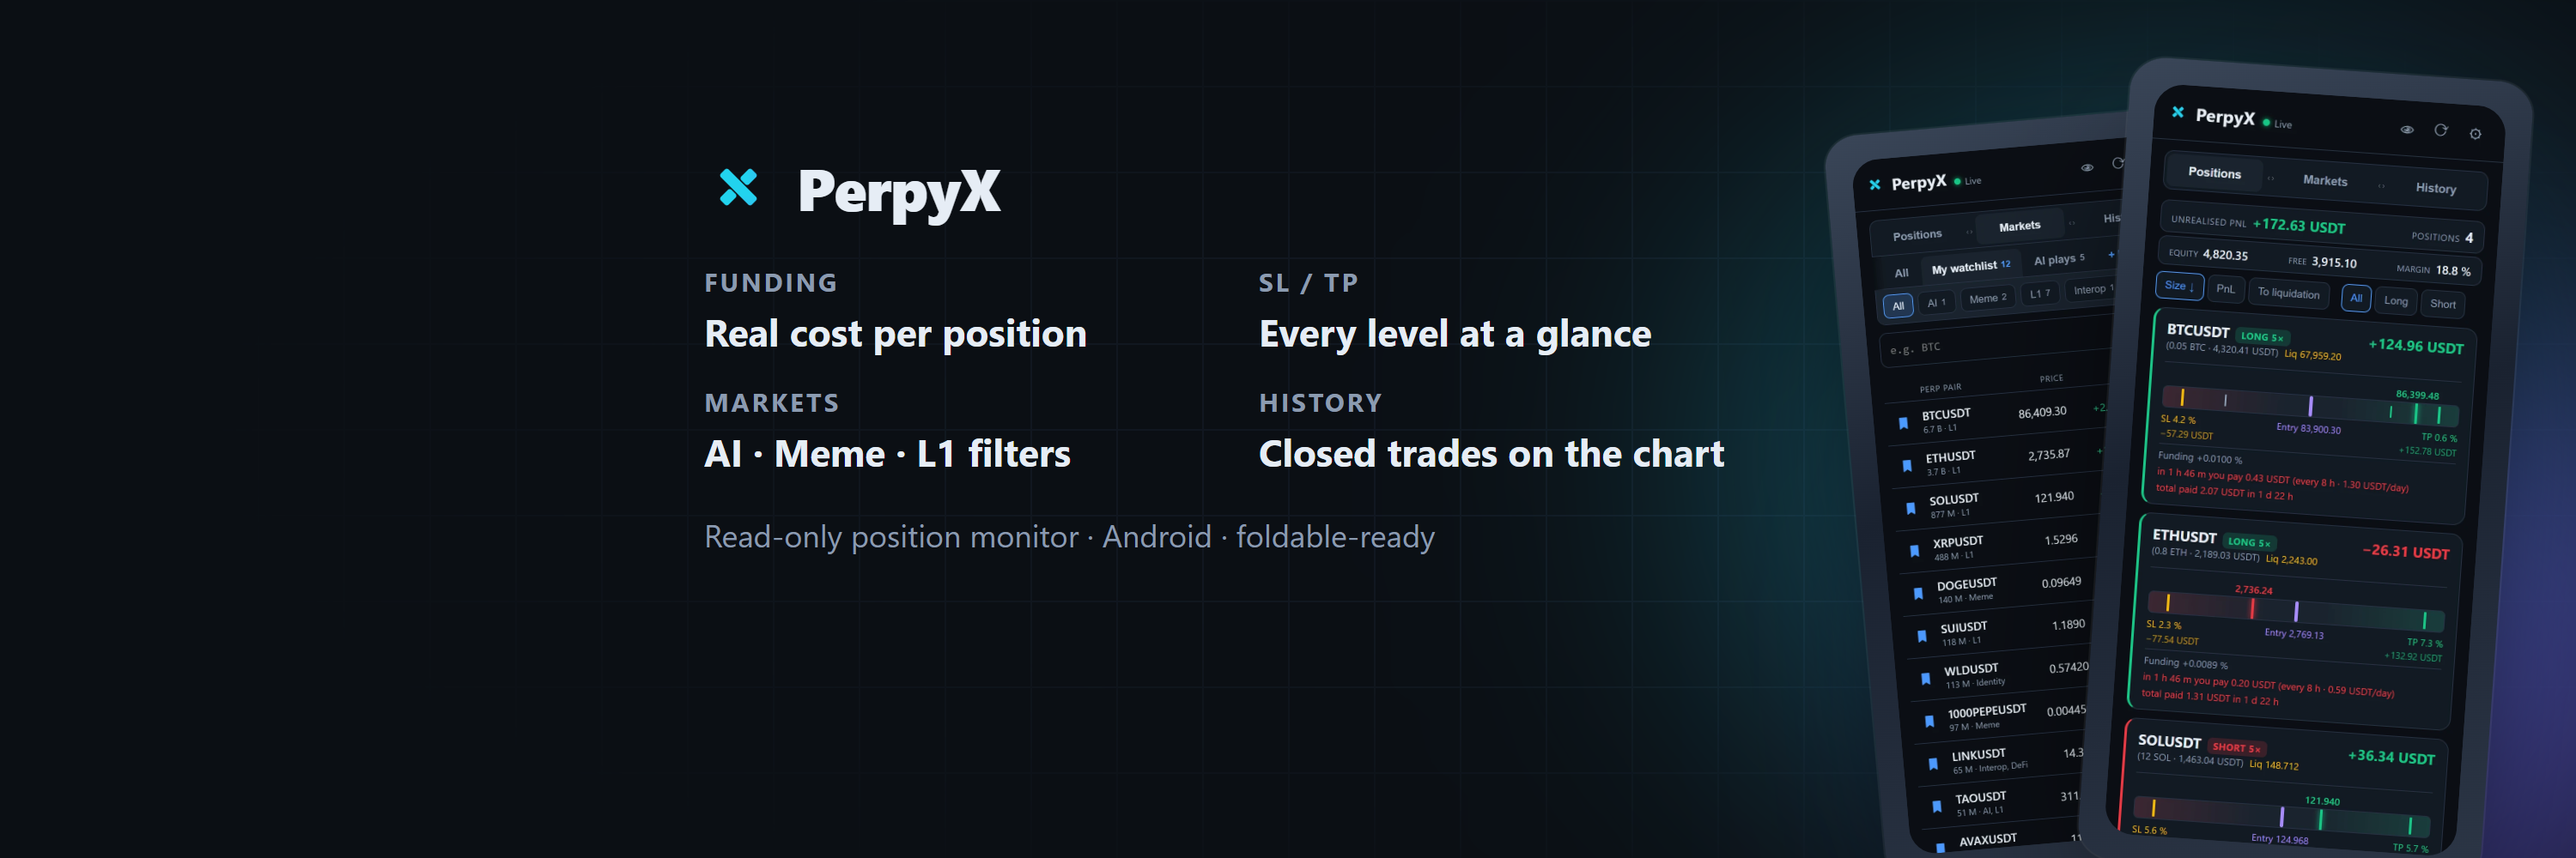
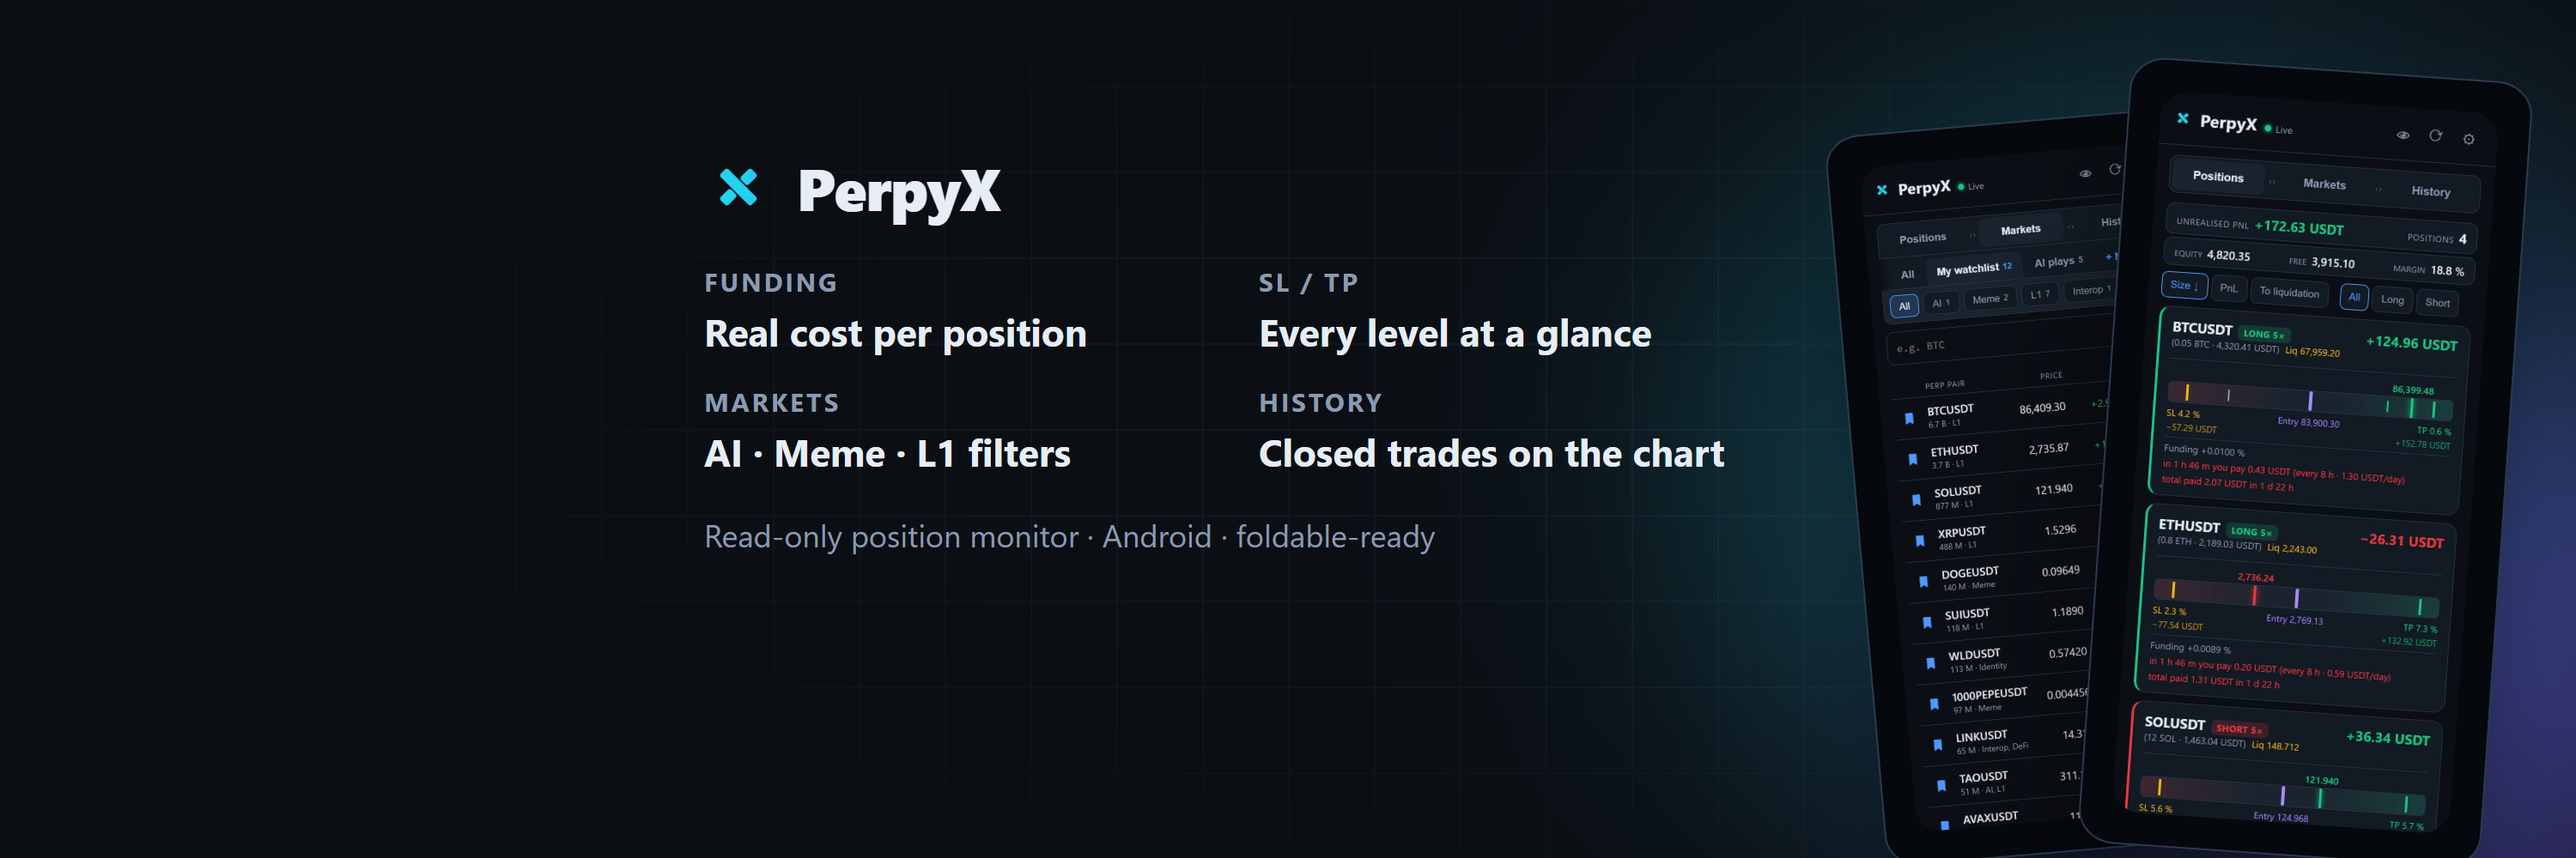
Design X: tenky tmavy ramecek jako na webu, viditelny okraj displeje
Claude-Session: https://claude.ai/code/session_015bSMKh62UKs2XyHsFmV9vj

Changed region(s): [[0.682, 0.062, 0.992, 1.0], [0.899, 0.186, 0.93, 0.217]]

diff --git a/design/x-profil/zahlavi.html b/design/x-profil/zahlavi.html
@@ -32,24 +32,22 @@
   .grad { background: var(--grad); -webkit-background-clip: text; background-clip: text; color: transparent; }
   .znacka { display: flex; align-items: center; gap: 14px; font-weight: 800; letter-spacing: -0.5px; }
   .znacka svg { flex: none; }
-  /* Moderní telefon: tenký světlejší rámeček (kov), displej až k okraji.
-     Tmavé okraje samotné aplikace pak čtou jako displej, ne jako rámeček —
-     s tlustým černým rámem vypadaly telefony o deset let starší. */
+  /* Rámeček jako na webu (tmavý s jemnou linkou), jen tenčí: displej sahá
+     skoro k okraji. Šedý kovový rámeček působil zastarale. */
   .telefon {
-    position: absolute; padding: 1%;
-    background: linear-gradient(160deg, #3a4658, #1a2230 45%, #2c3646);
-    border-radius: 9% / 4.2%;
-    box-shadow: 0 0 0 1px rgba(255, 255, 255, 0.06), 0 40px 90px -30px rgba(0, 0, 0, 0.95);
+    position: absolute; padding: 1.2%; background: #05080c;
+    border: 1px solid #2a3a50; border-radius: 9% / 4.2%;
+    box-shadow: 0 40px 90px -30px rgba(0, 0, 0, 0.95);
   }
   .telefon img { display: block; width: 100%; border-radius: 8.2% / 3.8%; }
-  .fold { position: absolute; padding: 0.7%; background: linear-gradient(160deg, #3a4658, #1a2230 45%, #2c3646); border-radius: 4% / 3.2%; box-shadow: 0 0 0 1px rgba(255,255,255,0.06), 0 40px 90px -30px rgba(0,0,0,0.95); }
+  .fold { position: absolute; padding: 0.7%; background: #05080c; border: 1px solid #2a3a50; border-radius: 4% / 3.2%; box-shadow: 0 40px 90px -30px rgba(0,0,0,0.95); }
   .fold img { display: block; width: 100%; border-radius: 3.5% / 2.8%; }
   .cip { display: inline-flex; align-items: center; gap: 8px; padding: 7px 14px; border-radius: 999px; border: 1px solid var(--line); background: rgba(17, 24, 35, 0.8); color: #c3cfdd; font-size: 17px; font-weight: 600; }
   .cip.ziva { border-color: rgba(22, 199, 132, 0.6); color: var(--text); }
   .cip.ziva::before { content: ''; width: 8px; height: 8px; border-radius: 50%; background: var(--green); box-shadow: 0 0 10px var(--green); }
   .cip.brzy { border-style: dashed; }
   /* Vlastní snímek z telefonu: ořízne stavovou a navigační lištu Androidu. */
-  .orez { overflow: hidden; border-radius: 8.2% / 3.8%; aspect-ratio: 904 / 2000; background: #0b0f14; }
+  .orez { overflow: hidden; border-radius: 8.2% / 3.8%; aspect-ratio: 904 / 2000; background: #0b0f14; box-shadow: 0 0 0 1px rgba(255, 255, 255, 0.09); }
   .orez img { display: block; width: 100%; border-radius: 0; transform: translateY(-4.6%); }
   .popis { color: var(--muted); font-size: 15px; letter-spacing: 1.4px; text-transform: uppercase; font-weight: 700; }
 </style>
